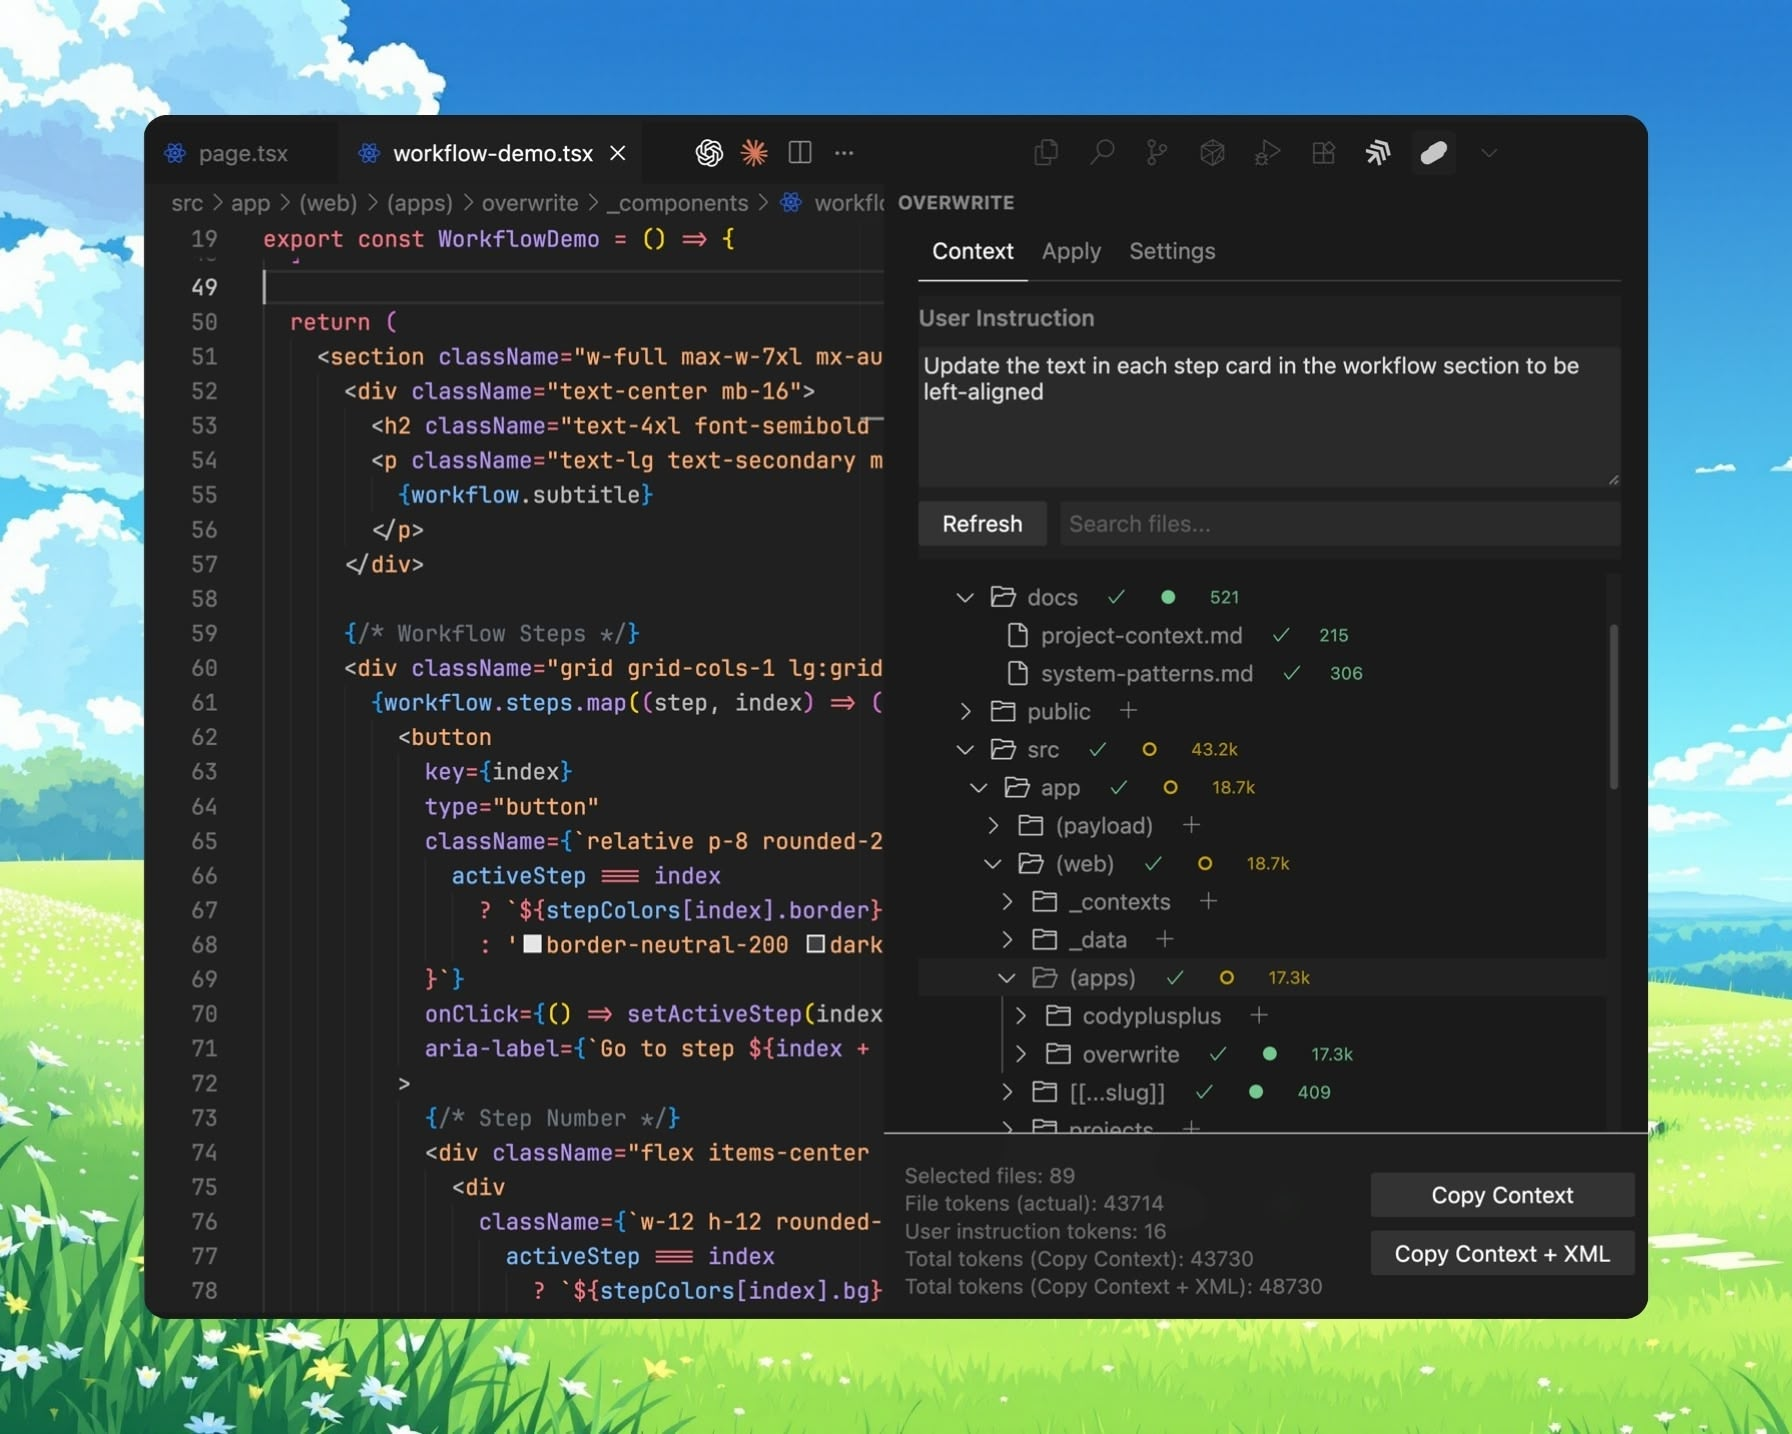
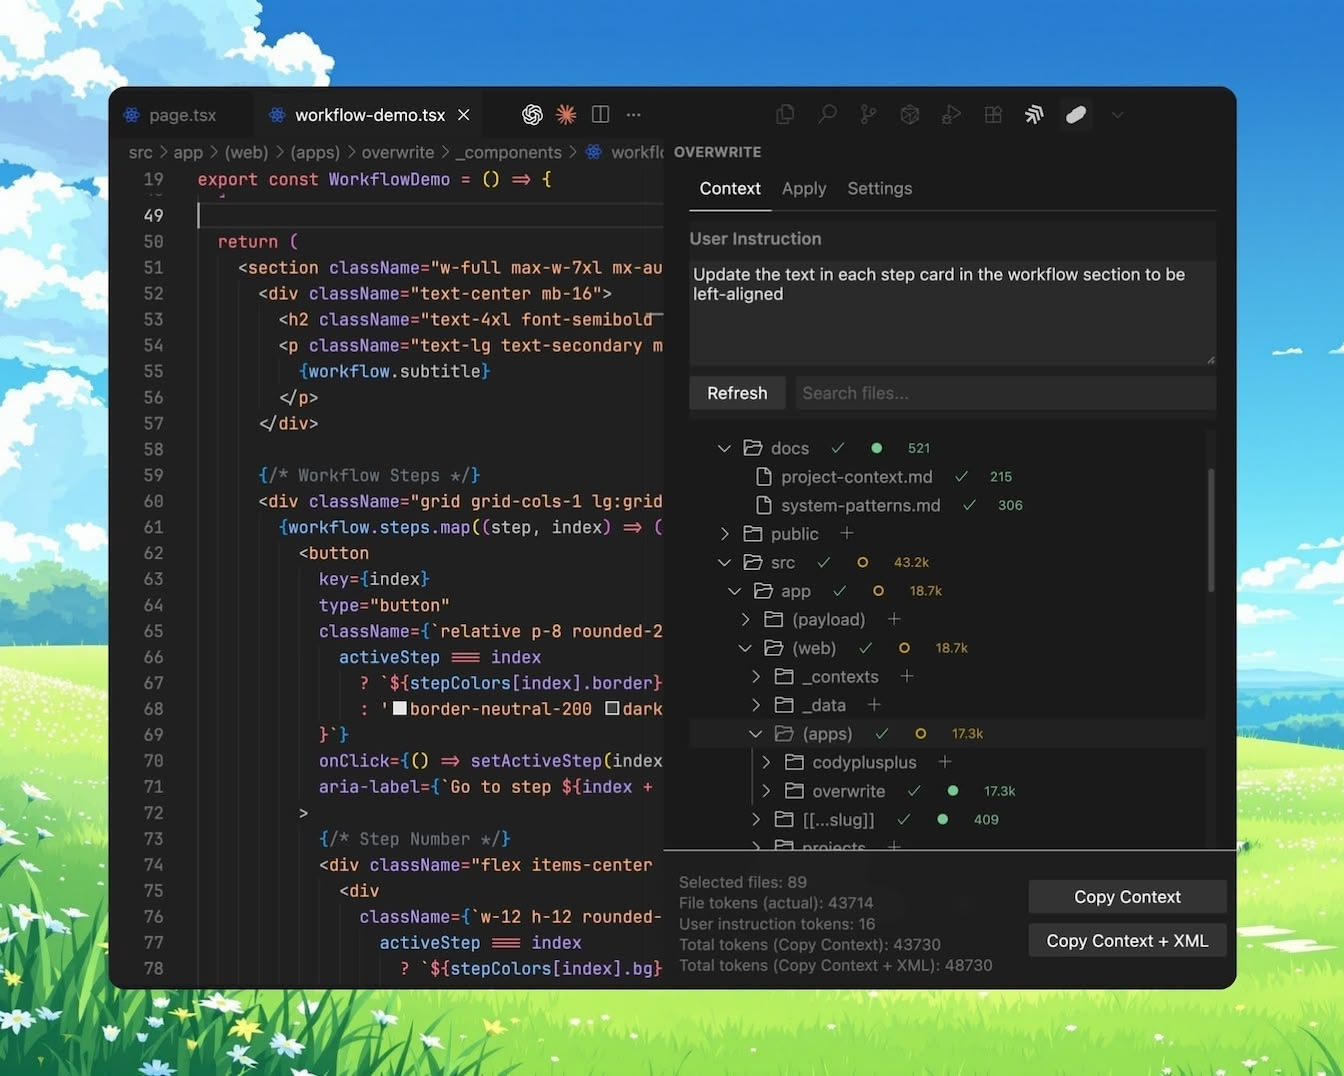
docs: update README with new screenshot paths and add acknowledgments section

diff --git a/src/providers/file-explorer/html-generator.ts b/src/providers/file-explorer/html-generator.ts
@@ -1,10 +1,7 @@
-import * as fs from 'node:fs'
-import * as path from 'node:path'
 import * as vscode from 'vscode'
 import { getNonce } from '../../utils/webview'
 
 const DEV_WEBVIEW_URL = 'http://localhost:5173'
-const DEV_TIMEOUT = 3000 // 3 seconds timeout for dev server connection
 
 /**
  * Generates the HTML content for the webview, choosing between dev and prod.
@@ -26,14 +23,6 @@ export function getHtmlForWebview(
 function getDevHtml(webview: vscode.Webview, extensionUri: vscode.Uri): string {
 	const nonce = getNonce()
 
-	// Check if we have built webview assets for fallback
-	const webviewAssetsDir = vscode.Uri.joinPath(
-		extensionUri,
-		'dist',
-		'webview-ui',
-	)
-	const hasBuiltAssets = checkIfAssetsExist(webviewAssetsDir)
-
 	// Path to codicons from the extension's node_modules
 	const codiconUri = webview.asWebviewUri(
 		vscode.Uri.joinPath(
@@ -46,114 +35,8 @@ function getDevHtml(webview: vscode.Webview, extensionUri: vscode.Uri): string {
 		),
 	)
 
-	if (hasBuiltAssets) {
-		// Use built assets with development features
-		return getDevHtmlWithBuiltAssets(webview, extensionUri, nonce, codiconUri)
-	}
-
-	// Use dev server (original behavior)
+	// Use dev server (original behavior) - prefer dev server for development
 	return getDevHtmlWithServer(webview, extensionUri, nonce, codiconUri)
-}
-
-/**
- * Check if built webview assets exist and are valid.
- */
-function checkIfAssetsExist(assetsDir: vscode.Uri): boolean {
-	try {
-		const assetsPath = assetsDir.fsPath
-
-		// Check if directory exists
-		if (!fs.existsSync(assetsPath)) {
-			return false
-		}
-
-		// Check for required files
-		const requiredFiles = [
-			path.join(assetsPath, 'assets', 'index.js'),
-			path.join(assetsPath, 'assets', 'index.css'),
-			path.join(assetsPath, 'assets', 'codicon.css'),
-		]
-
-		return requiredFiles.every((file) => fs.existsSync(file))
-	} catch {
-		return false
-	}
-}
-
-/**
- * Development HTML using built assets with hot reload capabilities.
- */
-function getDevHtmlWithBuiltAssets(
-	webview: vscode.Webview,
-	extensionUri: vscode.Uri,
-	nonce: string,
-	codiconUri: vscode.Uri,
-): string {
-	const cspSource = webview.cspSource
-
-	// Paths to built assets
-	const scriptUri = webview.asWebviewUri(
-		vscode.Uri.joinPath(
-			extensionUri,
-			'dist',
-			'webview-ui',
-			'assets',
-			'index.js',
-		),
-	)
-	const styleUri = webview.asWebviewUri(
-		vscode.Uri.joinPath(
-			extensionUri,
-			'dist',
-			'webview-ui',
-			'assets',
-			'index.css',
-		),
-	)
-
-	// CSP for development with built assets
-	const csp = [
-		`default-src 'none'`,
-		`font-src ${cspSource} data:`,
-		`connect-src ws://localhost:5173 ${cspSource}`, // Allow WebSocket for HMR
-		`img-src ${cspSource} https: data:`,
-		`script-src 'nonce-${nonce}' 'unsafe-eval' 'unsafe-inline'`, // Allow eval for HMR
-		`style-src ${cspSource} 'unsafe-inline'`,
-	].join('; ')
-
-	return `<!DOCTYPE html>
-<html lang="en">
-<head>
-  <meta charset="UTF-8">
-  <meta name="viewport" content="width=device-width, initial-scale=1.0">
-  <link href="${codiconUri}" rel="stylesheet" id="vscode-codicon-stylesheet" />
-  <meta http-equiv="Content-Security-Policy" content="${csp}">
-  <link rel="stylesheet" type="text/css" href="${styleUri}">
-  <title>Overwrite (Dev)</title>
-</head>
-<body>
-  <div id="root"></div>
-  <script type="module" nonce="${nonce}" src="${scriptUri}"></script>
-  <script nonce="${nonce}">
-    // Pass vscode API and nonce to the webview
-    window.nonce = "${nonce}"
-    window.vscodeApi = acquireVsCodeApi()
-    
-    // Attempt to connect to Vite dev server for HMR
-    setTimeout(() => {
-      try {
-        const script = document.createElement('script')
-        script.type = 'module'
-        script.src = '${DEV_WEBVIEW_URL}/@vite/client'
-        document.head.appendChild(script)
-        console.log('[HMR] Attempting to connect to Vite dev server...')
-      } catch (err) {
-        console.log('[HMR] Could not connect to Vite dev server, using built assets')
-      }
-    }, ${DEV_TIMEOUT})
-  </script>
-</body>
-</html>`
 }
 
 /**

diff --git a/src/webview-ui/src/components/context-tab/user-instructions.tsx b/src/webview-ui/src/components/context-tab/user-instructions.tsx
@@ -9,9 +9,20 @@ const UserInstructions: React.FC<UserInstructionsProps> = ({
 }) => {
 	return (
 		<div className="flex flex-col">
-			<vscode-label htmlFor="user-instructions" className="block mb-1">
-				User Instruction
-			</vscode-label>
+			<div className="flex items-center justify-between mb-1">
+				<vscode-label htmlFor="user-instructions">
+					User Instruction
+				</vscode-label>
+				<a
+					className="text-[8px] text-muted hover:underline hover:text-fg flex items-center gap-1"
+					href="https://mnismt.com/overwrite"
+					target="_blank"
+					rel="noreferrer"
+					aria-label="Open Overwrite docs and video demo in your browser"
+				>
+					<span>Docs</span>
+				</a>
+			</div>
 			<vscode-textarea
 				id="user-instructions"
 				resize="vertical"

diff --git a/README.md b/README.md
@@ -7,7 +7,7 @@
 A concise VS Code extension to build high‑quality XML prompts from selected workspace files and apply LLM‑suggested changes back to your code.
 
 <p align="center">
-  <img src="https://github.com/user-attachments/assets/9701b7a7-5f39-4961-81ae-24d0b2d75157" alt="Overwrite extension interface showing the Context tab with file explorer, selected files, token counts, and copy buttons" width="800" />
+  <img src="resources/screenshot-1.jpg" alt="Overwrite extension interface showing the Context tab with file explorer, selected files, token counts, and copy buttons" width="800" />
 </p>
 
 ## Features
@@ -26,7 +26,7 @@ A concise VS Code extension to build high‑quality XML prompts from selected wo
   - Privacy-preserving telemetry controls.
 
 <p align="center">
-  <img src="https://github.com/user-attachments/assets/b80f2319-19bb-43cd-9c10-4b15fe1ef4a6" alt="Overwrite extension interface showing the Context tab with file explorer, selected files, token counts, and copy buttons" width="800" />
+  <img src="resources/screenshot-4.jpg" alt="Overwrite extension interface showing the Context tab with file explorer, selected files, token counts, and copy buttons" width="800" />
 </p>
 
 ## How to use
@@ -49,3 +49,7 @@ For complete details, see [TELEMETRY.md](TELEMETRY.md).
 ## Requirements
 
 - VS Code 1.85.0+
+
+## Acknowledgments
+
+This project is heavily inspired by [RepoPrompt](https://repoprompt.com/) by @provencher.
